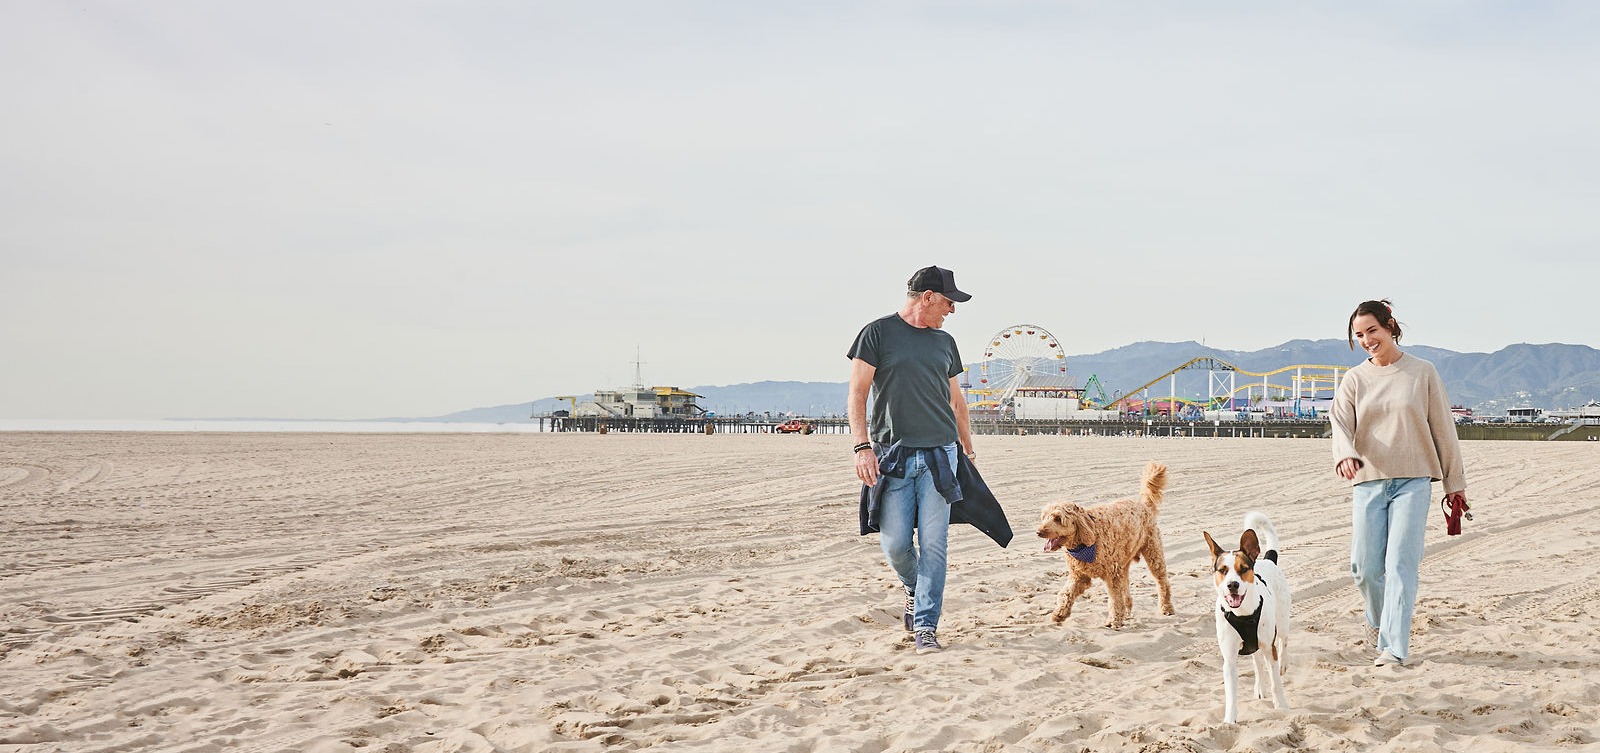
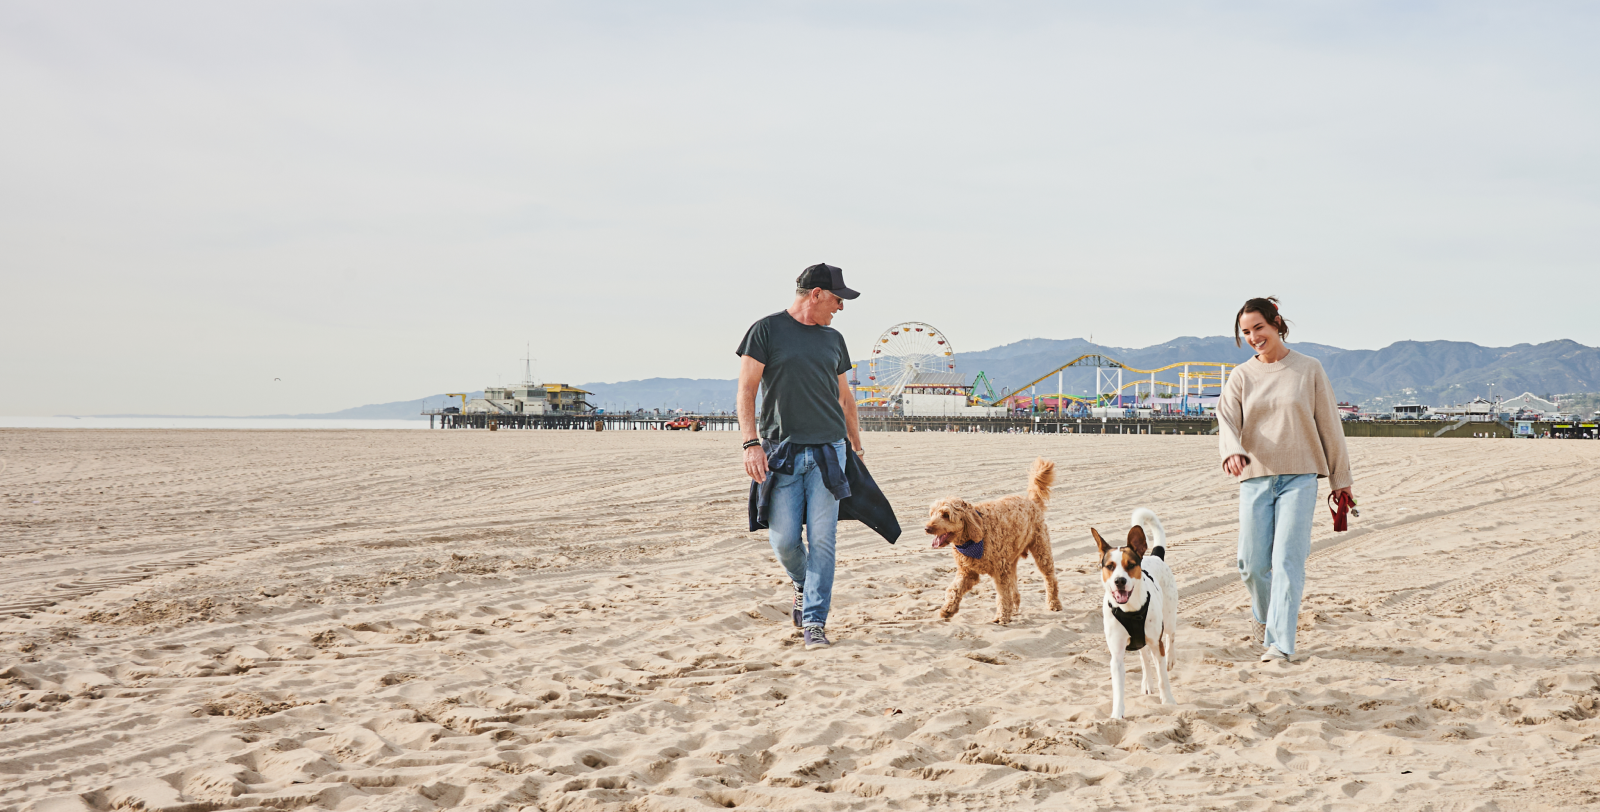
update culture image

diff --git a/components/CultureBeyondSection.tsx b/components/CultureBeyondSection.tsx
@@ -16,7 +16,7 @@ const InnerContent = styled('div')`
 `;
 
 const ImageContainer = styled('div')`
-  aspect-ratio: 1600 / 961;
+  aspect-ratio: 1600 / 812;
   width: 100%;
   display: flex;
   position: relative;
